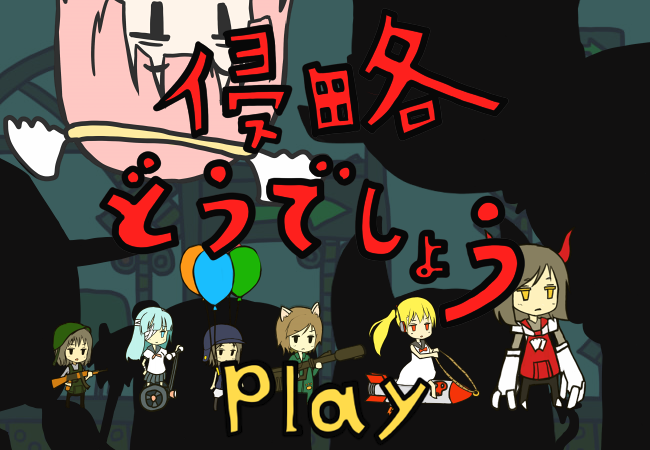
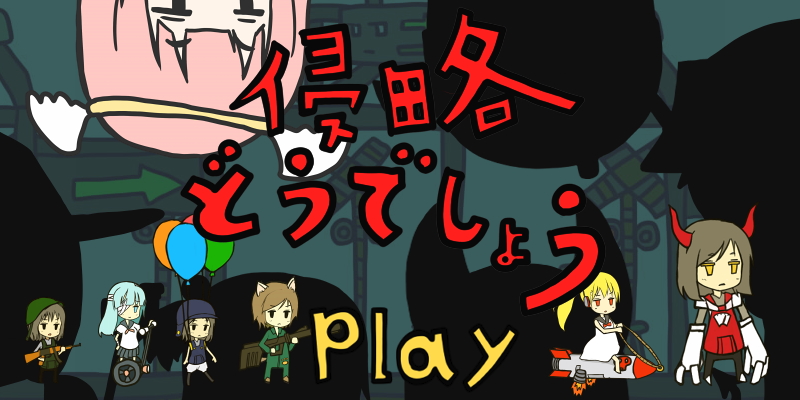
pause画面画像対応

diff --git a/Scene.cpp b/Scene.cpp
@@ -192,19 +192,22 @@ void GameScene::leaveScene(){
 }
 void GameScene::beforemain(){
 	if(!notEnd)return;
+	
 	char Buf[ 256 ] ;
 	GetHitKeyStateAll( Buf ) ;
 
-	if( Buf[ KEY_INPUT_LEFT ] == 1 ||	 Buf[ KEY_INPUT_A ] == 1 )
-	{
-		game->scrollLeft(15);
-	}
+	if(!pauseNow){
 
-	if( Buf[ KEY_INPUT_RIGHT ] == 1||  Buf[ KEY_INPUT_D ] == 1 )
-	{
-		game->scrollRight(15);
-	}
+		if( Buf[ KEY_INPUT_LEFT ] == 1 ||	 Buf[ KEY_INPUT_A ] == 1 )
+		{
+			game->scrollLeft(15);
+		}
 
+		if( Buf[ KEY_INPUT_RIGHT ] == 1||  Buf[ KEY_INPUT_D ] == 1 )
+		{
+			game->scrollRight(15);
+		}
+	}
 
 
 	if( Buf[ KEY_INPUT_ESCAPE ] == 1 ){

diff --git a/Layer.cpp b/Layer.cpp
@@ -955,9 +955,7 @@ PauseLayer::PauseLayer(){
 }
 
 void PauseLayer::draw(){
-	SetDrawBlendMode( DX_BLENDMODE_ALPHA , 128 ) ;
-	DrawBox(0,0,WINDOW_X,WINDOW_Y,GetColor(123,0,0),TRUE);
-	SetDrawBlendMode( DX_BLENDMODE_NOBLEND , 0 ) ;
+	DrawGraph(0,0,Images::get("pic/Pause.png"),TRUE);
 	DrawBox(WINDOW_X-200,WINDOW_Y-200,WINDOW_X-50,WINDOW_Y-50,GetColor(255,0,0),TRUE);
 }
 

diff --git a/Images.cpp b/Images.cpp
@@ -240,8 +240,10 @@ void Images::load(){
 	//sound[0]=LoadSoundMem("sound/kuma.mp3");
 
 	
-
+	
 	filelist.push_back("pic/tou.png");
+
+	filelist.push_back("pic/Pause.png");
 
 	filelist.push_back("pic/ba.png");
 	filelist.push_back("pic/ha.png");
